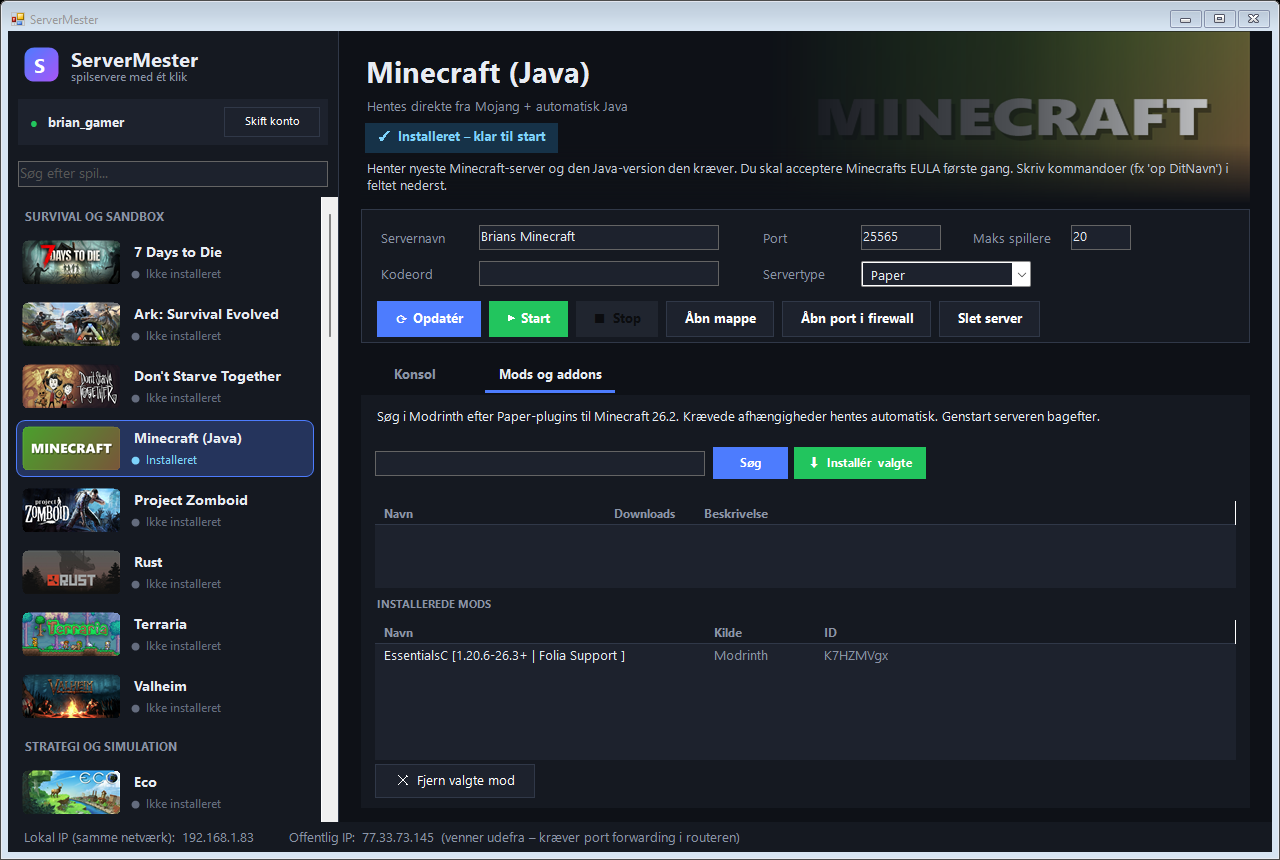
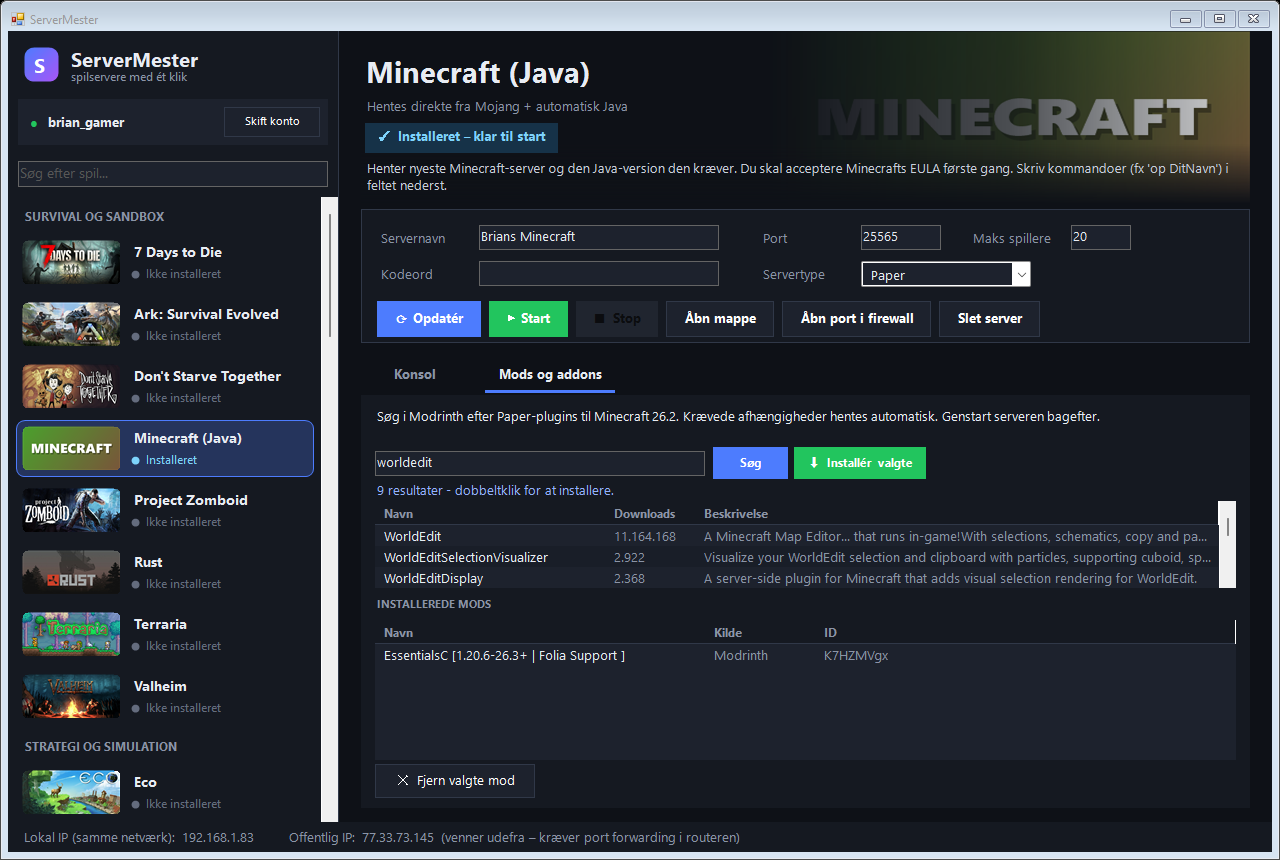
ServerMester-side: lyst design, læsbare skærmbilleder på mobil, rigtigt mod-søgeresultat
Claude-Session: https://claude.ai/code/session_011sSwKRd5cPDrpbJLk4s1hM

diff --git a/servermester/index.html b/servermester/index.html
@@ -5,7 +5,7 @@
 <meta name="viewport" content="width=device-width, initial-scale=1, viewport-fit=cover">
 <title>ServerMester – din egen spilserver med ét klik</title>
 <meta name="description" content="ServerMester installerer, opsætter og starter din egen spilserver til Minecraft, Valheim, Rust, Ark, CS2 og 35 andre spil – med mods – på få minutter. Gratis til Windows.">
-<meta name="theme-color" content="#0E1117">
+<meta name="theme-color" content="#F4F6FC">
 <meta property="og:title" content="ServerMester – din egen spilserver med ét klik">
 <meta property="og:description" content="40 spil. Mods med ét klik. Ingen kommandolinje, ingen månedlig regning.">
 <meta property="og:image" content="img/hovedvindue.png">
@@ -15,20 +15,17 @@
 <link href="https://fonts.googleapis.com/css2?family=Space+Grotesk:wght@500;600;700&family=Inter:wght@400;500;600;700&display=swap" rel="stylesheet">
 <style>
 :root{
-  --bg:#0B0E14; --bg2:#0E1117; --panel:#151921; --card:#1A1F2A; --line:#262D3B;
-  --ink:#E8ECF3; --muted:#8B94A7; --soft:#B6BECD;
-  --blue:#4D7CFE; --purple:#A855F7; --green:#22C55E; --amber:#F59E0B; --cyan:#38BDF8; --red:#EF4444;
+  --bg:#F4F6FC; --bg2:#FFFFFF; --panel:#FFFFFF; --card:#EEF2FA; --line:#E0E6F1;
+  --ink:#121826; --muted:#5E677A; --soft:#3E475A;
+  --blue:#3B6CF6; --purple:#9333EA; --green:#16A34A; --amber:#D97706; --cyan:#0284C7; --red:#EF4444;
   --grad:linear-gradient(120deg,#4D7CFE 0%,#7C5CFF 45%,#A855F7 100%);
-}
-:root[data-theme="light"]{
-  --bg:#F6F7FB; --bg2:#FFFFFF; --panel:#FFFFFF; --card:#F1F3F9; --line:#E2E6EF;
-  --ink:#141823; --muted:#5B6476; --soft:#3C4456;
 }
 *,*::before,*::after{box-sizing:border-box}
 html{-webkit-text-size-adjust:100%;scroll-behavior:smooth}
 body{margin:0;background:var(--bg);color:var(--ink);font:17px/1.65 Inter,system-ui,-apple-system,"Segoe UI",sans-serif;-webkit-font-smoothing:antialiased;overflow-x:hidden}
 a{color:inherit}
-img{max-width:100%;display:block}
+img{max-width:100%;height:auto;display:block}
+picture{display:block}
 h1,h2,h3{font-family:"Space Grotesk",Inter,sans-serif;letter-spacing:-.02em;line-height:1.1;margin:0}
 .wrap{max-width:1140px;margin:0 auto;padding:0 16px}
 .grad-text{background:var(--grad);-webkit-background-clip:text;background-clip:text;color:transparent}
@@ -58,7 +55,7 @@ h1,h2,h3{font-family:"Space Grotesk",Inter,sans-serif;letter-spacing:-.02em;line
 .hero::before{content:"";position:absolute;inset:-30% -10% auto;height:720px;background:
   radial-gradient(closest-side,#4D7CFE33,transparent 70%) 15% 30%/600px 600px no-repeat,
   radial-gradient(closest-side,#A855F733,transparent 70%) 85% 10%/700px 700px no-repeat;pointer-events:none}
-.hero .grid-bg{position:absolute;inset:0;background-image:linear-gradient(var(--line) 1px,transparent 1px),linear-gradient(90deg,var(--line) 1px,transparent 1px);background-size:48px 48px;opacity:.25;mask-image:radial-gradient(ellipse at 50% 20%,#000 20%,transparent 70%);pointer-events:none}
+.hero .grid-bg{position:absolute;inset:0;background-image:linear-gradient(var(--line) 1px,transparent 1px),linear-gradient(90deg,var(--line) 1px,transparent 1px);background-size:48px 48px;opacity:.7;mask-image:radial-gradient(ellipse at 50% 20%,#000 20%,transparent 70%);pointer-events:none}
 .hero-inner{position:relative;text-align:center;display:grid;justify-items:center;gap:22px}
 .pill{display:inline-flex;align-items:center;gap:8px;padding:6px 14px 6px 8px;border-radius:999px;background:var(--panel);border:1px solid var(--line);font-size:14px;font-weight:600;color:var(--soft)}
 .pill b{background:var(--green);color:#052e14;border-radius:999px;padding:2px 9px;font-size:12px}
@@ -69,10 +66,10 @@ h1,h2,h3{font-family:"Space Grotesk",Inter,sans-serif;letter-spacing:-.02em;line
 .under span::before{content:"✓ ";color:var(--green);font-weight:700}
 
 .shot{position:relative;margin:54px auto 0;max-width:1100px;perspective:1600px}
-.shot .frame{border-radius:14px;overflow:hidden;border:1px solid var(--line);box-shadow:0 40px 120px #000c,0 0 0 1px #ffffff10;transform:rotateX(8deg);transform-origin:50% 0;transition:transform .8s cubic-bezier(.2,.7,.2,1)}
+.shot .frame{border-radius:14px;overflow:hidden;border:1px solid var(--line);box-shadow:0 30px 80px #1E2A5A40,0 0 0 1px #12182610;transform:rotateX(8deg);transform-origin:50% 0;transition:transform .8s cubic-bezier(.2,.7,.2,1)}
 .shot.flat .frame{transform:rotateX(0)}
 .shot::after{content:"";position:absolute;inset:auto 10% -30px;height:120px;background:var(--grad);filter:blur(80px);opacity:.45;z-index:-1}
-.float-tag{position:absolute;display:flex;align-items:center;gap:10px;padding:10px 14px;border-radius:12px;background:color-mix(in srgb,var(--panel) 92%,transparent);border:1px solid var(--line);backdrop-filter:blur(10px);font-size:14px;font-weight:600;box-shadow:0 14px 40px #0008;animation:svaev 6s ease-in-out infinite}
+.float-tag{position:absolute;display:flex;align-items:center;gap:10px;padding:10px 14px;border-radius:12px;background:color-mix(in srgb,var(--panel) 92%,transparent);border:1px solid var(--line);backdrop-filter:blur(10px);font-size:14px;font-weight:600;box-shadow:0 14px 40px #1E2A5A26;animation:svaev 6s ease-in-out infinite}
 .float-tag .dot{width:9px;height:9px;border-radius:50%;background:var(--green);box-shadow:0 0 0 4px #22C55E33}
 .float-tag.t1{left:-14px;top:22%}
 .float-tag.t2{right:-14px;top:52%;animation-delay:-3s}
@@ -96,7 +93,7 @@ section{padding:96px 0}
 .sec-head p{color:var(--soft);margin:16px 0 0;font-size:18px}
 
 /* Tal */
-.stats{display:grid;grid-template-columns:repeat(4,1fr);gap:14px;margin-top:-20px}
+.stats{display:grid;grid-template-columns:repeat(4,1fr);gap:14px;margin-top:28px}
 .stat{background:var(--panel);border:1px solid var(--line);border-radius:16px;padding:22px;text-align:center}
 .stat b{display:block;font:700 40px "Space Grotesk",sans-serif;background:var(--grad);-webkit-background-clip:text;background-clip:text;color:transparent}
 .stat span{color:var(--muted);font-size:14px;font-weight:600}
@@ -126,7 +123,7 @@ section{padding:96px 0}
 .split{display:grid;grid-template-columns:1fr 1.25fr;gap:56px;align-items:center}
 .split.rev{grid-template-columns:1.25fr 1fr}
 .split.rev .txt{order:2}
-.split img{border-radius:14px;border:1px solid var(--line);box-shadow:0 30px 80px #000a}
+.split img{border-radius:14px;border:1px solid var(--line);box-shadow:0 24px 60px #1E2A5A33}
 .split h2{font-size:clamp(28px,4vw,42px);margin-bottom:16px}
 .split p{color:var(--soft)}
 .chips{display:flex;flex-wrap:wrap;gap:8px;margin:20px 0 0;padding:0;list-style:none}
@@ -179,6 +176,26 @@ details p{margin:0 0 18px;color:var(--soft)}
 footer{padding:40px 0 60px;color:var(--muted);font-size:14px;text-align:center}
 footer a{color:var(--soft)}
 
+/* Lyst tema: bløde skygger på kort */
+.stat,.step,.feat,.col,details,.game,.pill,.filters button,.chips li{box-shadow:0 1px 2px #1218260a,0 6px 20px #1E2A5A0f}
+.hero{background:linear-gradient(180deg,#EAF0FF 0%,var(--bg) 100%)}
+.final{background:radial-gradient(800px 300px at 50% 0%,#7C5CFF2e,transparent),var(--panel)!important;box-shadow:0 20px 60px #1E2A5A1f}
+.top{background:color-mix(in srgb,#FFFFFF 85%,transparent)}
+
+/* Mobil: læsbare udsnit af skærmbillederne og to spil pr. række */
+@media (max-width:640px){
+  .shot{max-width:340px}
+  .shot .frame,.shot.flat .frame{transform:none}
+  .shot::after{inset:auto 0 -20px}
+  .games{grid-template-columns:repeat(2,1fr);gap:10px}
+  .game .info{padding:8px 10px}
+  .game .info b{font-size:13px}
+  .game .tag{font-size:10px;padding:2px 6px}
+  .game .img.tile{font-size:15px}
+  .marquee img{width:140px;height:66px}
+  section{padding:64px 0}
+}
+
 /* Sprogvælger */
 .sprog{display:flex;gap:2px;padding:3px;border-radius:10px;background:var(--panel);border:1px solid var(--line)}
 .sprog button{font:700 12px Inter,sans-serif;letter-spacing:.04em;padding:6px 8px;border:0;border-radius:7px;background:transparent;color:var(--muted);cursor:pointer}
@@ -230,7 +247,7 @@ footer a{color:var(--soft)}
   </div>
   <div class="wrap">
     <div class="shot" id="shot">
-      <div class="frame"><img src="img/hovedvindue.png" width="1280" height="860" data-i-alt="alt1" alt="ServerMester med Valheim valgt: spil-liste med billeder til venstre, serverindstillinger og knapper til Installér og Start til højre"></div>
+      <div class="frame"><picture><source media="(max-width:640px)" srcset="img/m-hero.png" width="322" height="560"><img src="img/hovedvindue.png" width="1280" height="860" data-i-alt="alt1" alt="ServerMester med Valheim valgt: spil-liste med billeder til venstre, serverindstillinger og knapper til Installér og Start til højre"></picture></div>
       <div class="float-tag t1"><span class="dot"></span><span data-i="tag1">Serveren kører · vennerne kan joine</span></div>
       <div class="float-tag t2" data-i="tag2">⬇ Paper-plugin installeret</div>
     </div>
@@ -303,7 +320,7 @@ footer a{color:var(--soft)}
         <li data-i="m3">Fjern en mod igen med ét klik</li>
       </ul>
     </div>
-    <img class="vis" src="img/mods.png" width="1280" height="860" loading="lazy" data-i-alt="alt2" alt="Mods-fanen i ServerMester med Minecraft valgt: søgefelt til Modrinth og en liste over installerede plugins">
+    <picture class="vis"><source media="(max-width:640px)" srcset="img/m-mods.png" width="430" height="235"><img src="img/mods.png" width="1280" height="860" loading="lazy" data-i-alt="alt2" alt="Mods-fanen i ServerMester med Minecraft valgt: søgefelt til Modrinth og en liste over installerede plugins"></picture>
   </div>
 </section>
 
@@ -320,7 +337,7 @@ footer a{color:var(--soft)}
         <li data-i="l4">Spørger før den sletter noget – og stopper serverne pænt når du lukker</li>
       </ul>
     </div>
-    <img class="vis" src="img/rust.png" width="1280" height="860" loading="lazy" data-i-alt="alt3" alt="ServerMester med Rust valgt og spil-listen med billeder af 7 Days to Die, Ark, Don't Starve Together, Minecraft og flere">
+    <picture class="vis"><source media="(max-width:640px)" srcset="img/m-rust.png" width="400" height="300"><img src="img/rust.png" width="1280" height="860" loading="lazy" data-i-alt="alt3" alt="ServerMester med Rust valgt og spil-listen med billeder af 7 Days to Die, Ark, Don't Starve Together, Minecraft og flere"></picture>
   </div>
 </section>
 
